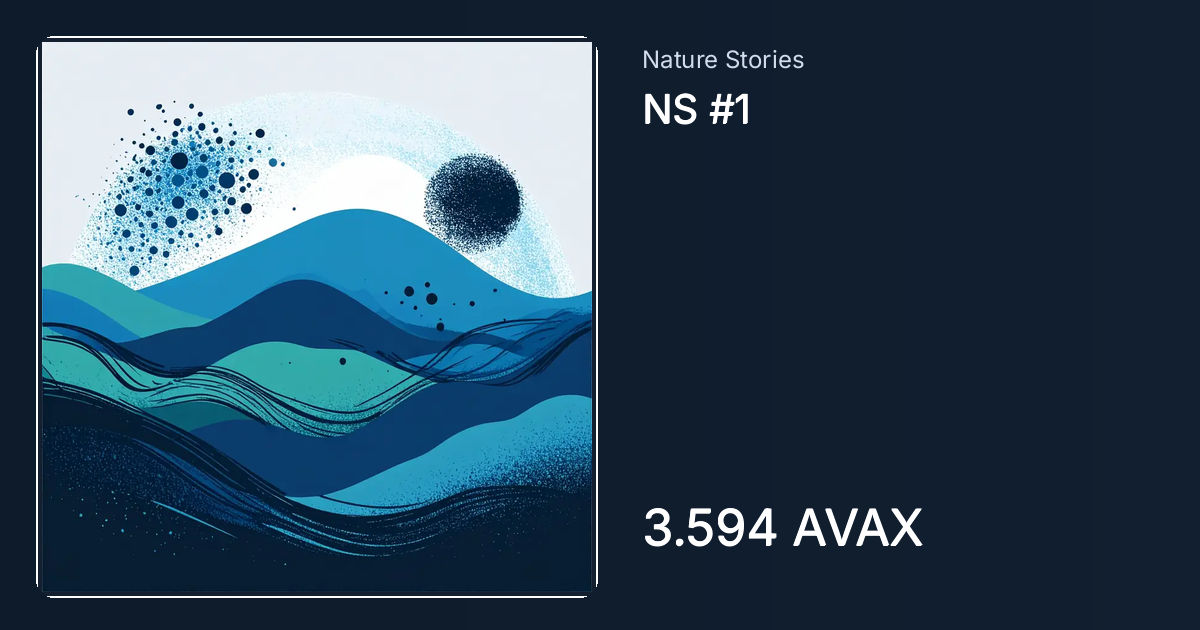
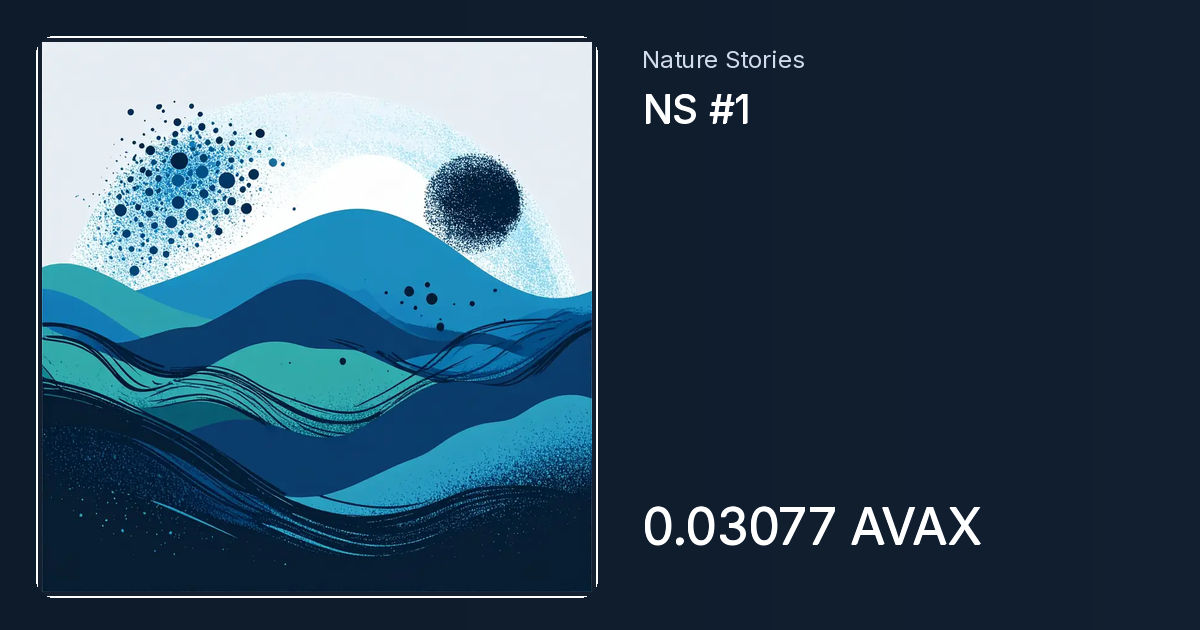
OG landings avalanche_nature_stories

diff --git a/nft/avalanche-nature-stories/1.html b/nft/avalanche-nature-stories/1.html
@@ -3,20 +3,20 @@
 <head>
     <meta charset="UTF-8">
     <meta name="viewport" content="width=device-width, initial-scale=1.0">
-    <meta name="description" content="3.594 AVAX · Nature Stories — Listed">
+    <meta name="description" content="0.03077 AVAX · Nature Stories — Listed">
     <title>NS #1 | Jack Beatnic Gallery</title>
     <meta property="og:type" content="website">
     <meta property="og:url" content="https://jackbeatnic.github.io/nft/avalanche-nature-stories/1.html">
     <meta property="og:title" content="NS #1 | Jack Beatnic Gallery">
-    <meta property="og:description" content="3.594 AVAX · Nature Stories — Listed">
-    <meta property="og:image" content="https://jackbeatnic.github.io/assets/og/avalanche-nature-stories-1.jpg?v=202609190040">
+    <meta property="og:description" content="0.03077 AVAX · Nature Stories — Listed">
+    <meta property="og:image" content="https://jackbeatnic.github.io/assets/og/avalanche-nature-stories-1.jpg?v=202609191934">
     <meta property="og:image:width" content="1200">
     <meta property="og:image:height" content="630">
     <meta name="twitter:card" content="summary_large_image">
     <meta name="twitter:site" content="@JackBeatnicAI">
     <meta name="twitter:title" content="NS #1 | Jack Beatnic Gallery">
-    <meta name="twitter:description" content="3.594 AVAX · Nature Stories — Listed">
-    <meta name="twitter:image" content="https://jackbeatnic.github.io/assets/og/avalanche-nature-stories-1.jpg?v=202609190040">
+    <meta name="twitter:description" content="0.03077 AVAX · Nature Stories — Listed">
+    <meta name="twitter:image" content="https://jackbeatnic.github.io/assets/og/avalanche-nature-stories-1.jpg?v=202609191934">
     <meta name="twitter:image:alt" content="NS #1 | Jack Beatnic Gallery">
     <link rel="canonical" href="https://jackbeatnic.github.io/nft/avalanche-nature-stories/1.html">
     <script>location.replace("https://jackbeatnic.github.io/?work=1&collection=avalanche_nature_stories&section=ai_art&ai=evm&edition=avalanche");</script>

diff --git a/nft/avalanche-nature-jam/1.html b/nft/avalanche-nature-jam/1.html
@@ -9,14 +9,14 @@
     <meta property="og:url" content="https://jackbeatnic.github.io/nft/avalanche-nature-jam/1.html">
     <meta property="og:title" content="JB NJ #0001 | Jack Beatnic Gallery">
     <meta property="og:description" content="Avalanche · Nature Jam — Jack Beatnic Gallery">
-    <meta property="og:image" content="https://jackbeatnic.github.io/assets/og/avalanche-nature-jam-1.jpg?v=202609190040">
+    <meta property="og:image" content="https://jackbeatnic.github.io/assets/og/avalanche-nature-jam-1.jpg?v=202609191934">
     <meta property="og:image:width" content="1200">
     <meta property="og:image:height" content="630">
     <meta name="twitter:card" content="summary_large_image">
     <meta name="twitter:site" content="@JackBeatnicAI">
     <meta name="twitter:title" content="JB NJ #0001 | Jack Beatnic Gallery">
     <meta name="twitter:description" content="Avalanche · Nature Jam — Jack Beatnic Gallery">
-    <meta name="twitter:image" content="https://jackbeatnic.github.io/assets/og/avalanche-nature-jam-1.jpg?v=202609190040">
+    <meta name="twitter:image" content="https://jackbeatnic.github.io/assets/og/avalanche-nature-jam-1.jpg?v=202609191934">
     <meta name="twitter:image:alt" content="JB NJ #0001 | Jack Beatnic Gallery">
     <link rel="canonical" href="https://jackbeatnic.github.io/nft/avalanche-nature-jam/1.html">
     <script>location.replace("https://jackbeatnic.github.io/?work=1&collection=avalanche_nature_jam&section=ai_art&ai=evm&series=nature_jam&edition=avalanche");</script>

diff --git a/nft/sui-nature-stories-tradeport/1.html b/nft/sui-nature-stories-tradeport/1.html
@@ -9,14 +9,14 @@
     <meta property="og:url" content="https://jackbeatnic.github.io/nft/sui-nature-stories-tradeport/1.html">
     <meta property="og:title" content="NS #1 S | Jack Beatnic Gallery">
     <meta property="og:description" content="Sui · Nature Stories SE — Mint">
-    <meta property="og:image" content="https://jackbeatnic.github.io/assets/og/sui-nature-stories-tradeport-1.jpg?v=202609190040">
+    <meta property="og:image" content="https://jackbeatnic.github.io/assets/og/sui-nature-stories-tradeport-1.jpg?v=202609191934">
     <meta property="og:image:width" content="1200">
     <meta property="og:image:height" content="630">
     <meta name="twitter:card" content="summary_large_image">
     <meta name="twitter:site" content="@JackBeatnicAI">
     <meta name="twitter:title" content="NS #1 S | Jack Beatnic Gallery">
     <meta name="twitter:description" content="Sui · Nature Stories SE — Mint">
-    <meta name="twitter:image" content="https://jackbeatnic.github.io/assets/og/sui-nature-stories-tradeport-1.jpg?v=202609190040">
+    <meta name="twitter:image" content="https://jackbeatnic.github.io/assets/og/sui-nature-stories-tradeport-1.jpg?v=202609191934">
     <meta name="twitter:image:alt" content="NS #1 S | Jack Beatnic Gallery">
     <link rel="canonical" href="https://jackbeatnic.github.io/nft/sui-nature-stories-tradeport/1.html">
     <script>location.replace("https://jackbeatnic.github.io/?work=1&collection=sui_nature_stories_tradeport&section=ai_art&ai=sui");</script>

diff --git a/nft/xrpl-jb-ai-nature/1.html b/nft/xrpl-jb-ai-nature/1.html
@@ -9,14 +9,14 @@
     <meta property="og:url" content="https://jackbeatnic.github.io/nft/xrpl-jb-ai-nature/1.html">
     <meta property="og:title" content="JBN #1 X | Jack Beatnic Gallery">
     <meta property="og:description" content="0.1 XRP · Jack Beatnic — Listed">
-    <meta property="og:image" content="https://jackbeatnic.github.io/assets/og/xrpl-jb-ai-nature-1.jpg?v=202609190040">
+    <meta property="og:image" content="https://jackbeatnic.github.io/assets/og/xrpl-jb-ai-nature-1.jpg?v=202609191934">
     <meta property="og:image:width" content="1200">
     <meta property="og:image:height" content="630">
     <meta name="twitter:card" content="summary_large_image">
     <meta name="twitter:site" content="@JackBeatnicAI">
     <meta name="twitter:title" content="JBN #1 X | Jack Beatnic Gallery">
     <meta name="twitter:description" content="0.1 XRP · Jack Beatnic — Listed">
-    <meta name="twitter:image" content="https://jackbeatnic.github.io/assets/og/xrpl-jb-ai-nature-1.jpg?v=202609190040">
+    <meta name="twitter:image" content="https://jackbeatnic.github.io/assets/og/xrpl-jb-ai-nature-1.jpg?v=202609191934">
     <meta name="twitter:image:alt" content="JBN #1 X | Jack Beatnic Gallery">
     <link rel="canonical" href="https://jackbeatnic.github.io/nft/xrpl-jb-ai-nature/1.html">
     <script>location.replace("https://jackbeatnic.github.io/?work=1&collection=xrpl_jb_ai_nature&section=ai_art&ai=xrpl");</script>
